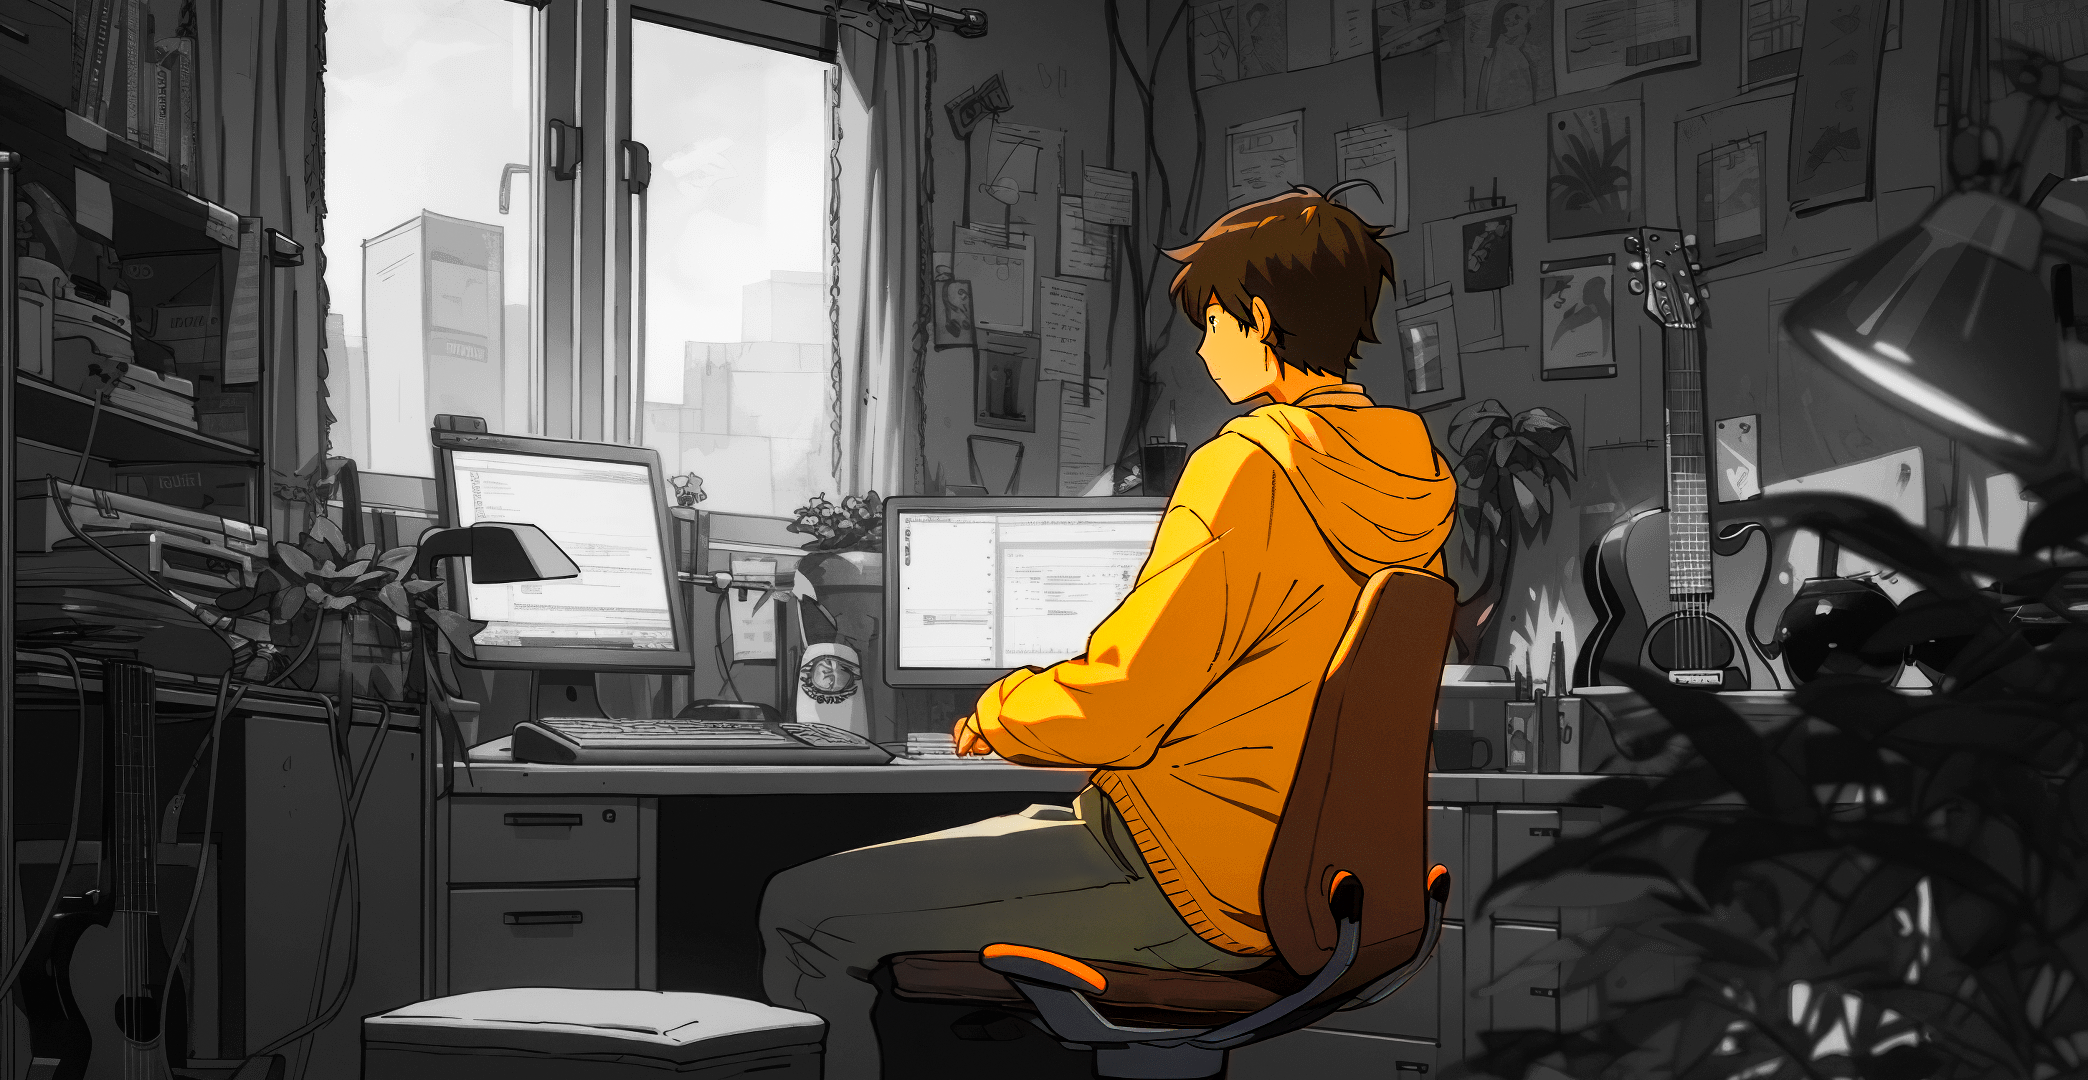
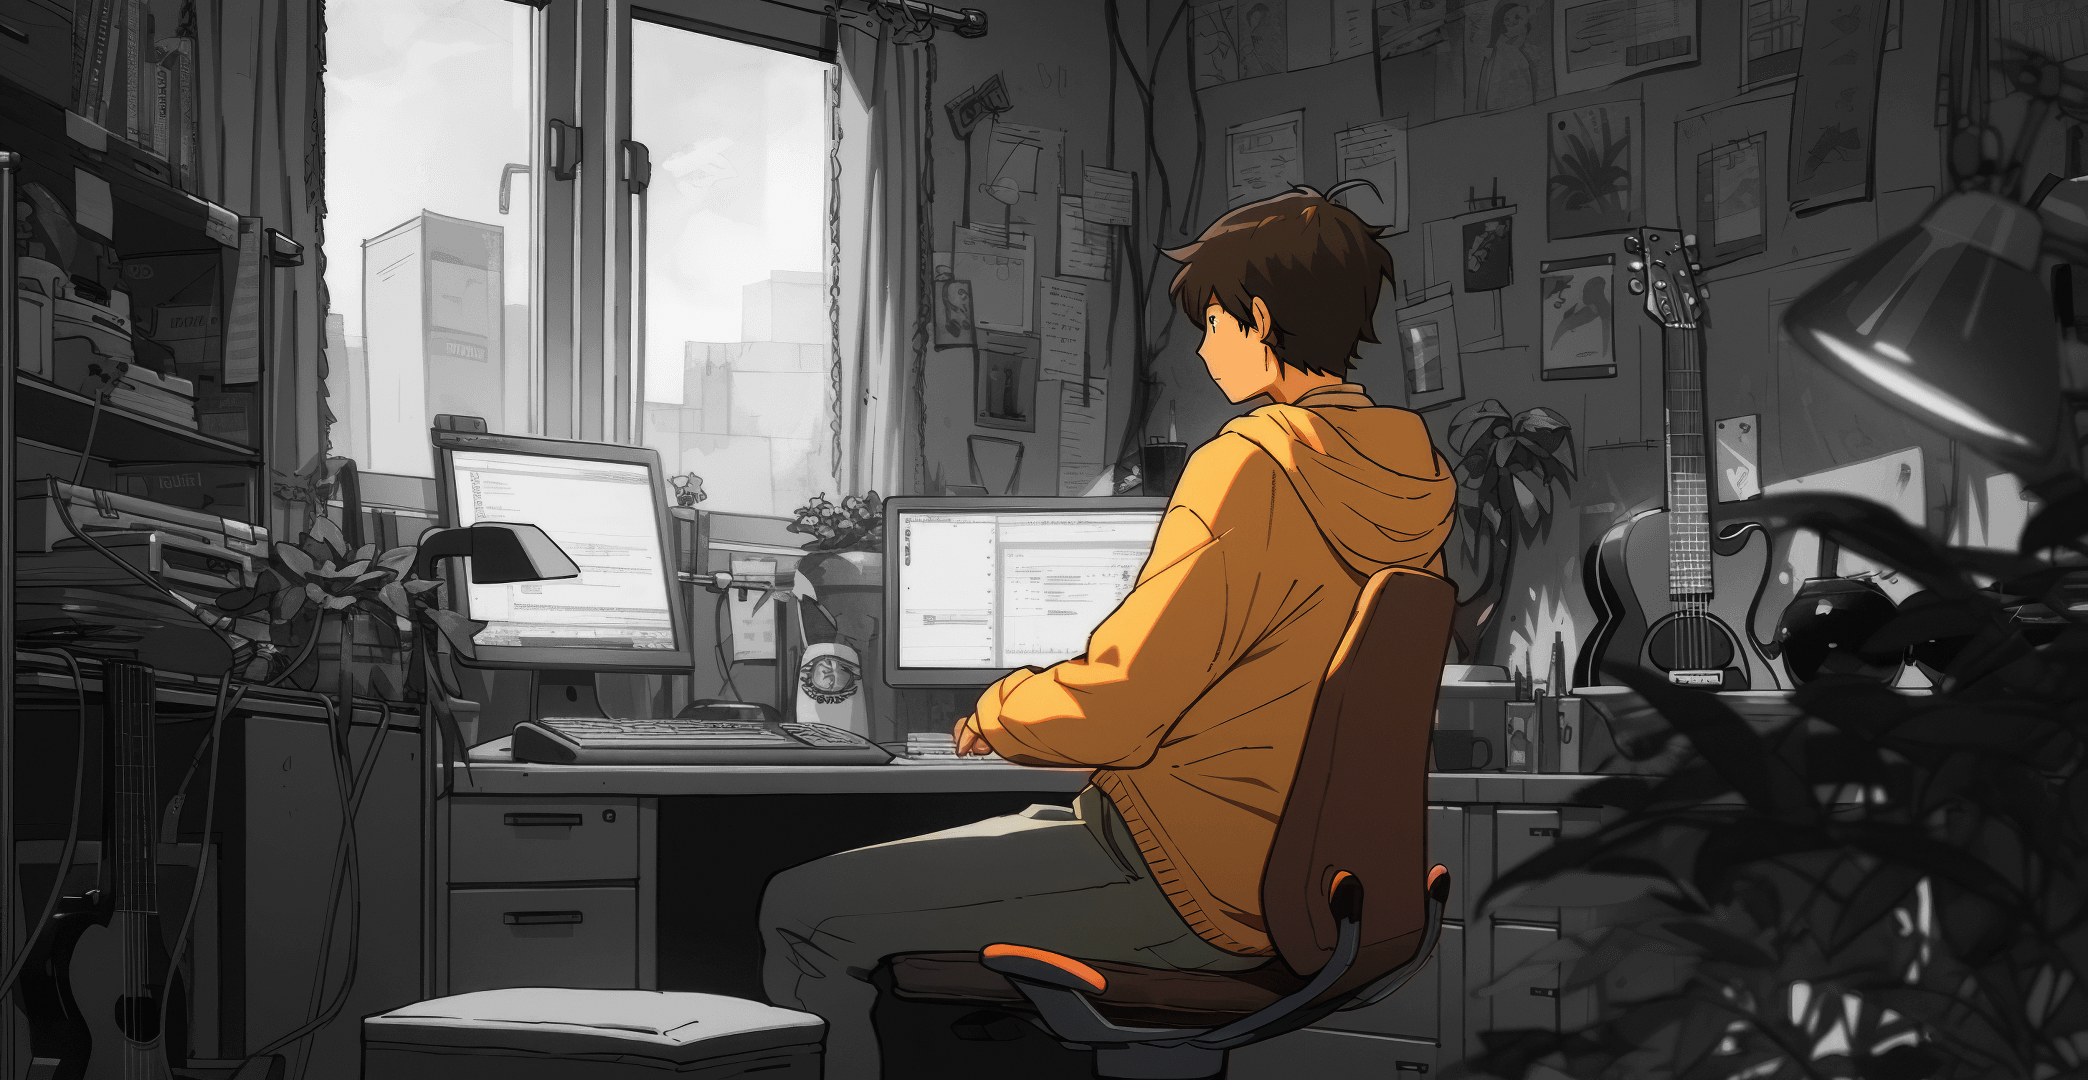
darkmode images

diff --git a/src/components/ImageBackground.tsx b/src/components/ImageBackground.tsx
@@ -14,6 +14,26 @@ const ImageBackground = ({ darkMode }: ImageBackgroundProps) => {
   const nextImageRef = useRef<HTMLDivElement>(null);
   const currentImageKey = useRef<string>('home');
 
+  function getBackgroundImages(darkMode: boolean) {
+    return darkMode ? {
+      home: '/lovable-uploads/reference-dark.PNG',
+      about: '/lovable-uploads/about-dark.PNG',
+      skills: '/lovable-uploads/skills-dark.PNG',
+      experience: '/lovable-uploads/experience-dark.PNG',
+      projects: '/lovable-uploads/projects-dark.PNG',
+      gallery: '/lovable-uploads/gallery-dark.PNG',
+      contact: '/lovable-uploads/reference-dark.PNG'
+    } : {
+      home: '/lovable-uploads/reference.PNG',
+      about: '/lovable-uploads/about.PNG',
+      skills: '/lovable-uploads/skills.PNG',
+      experience: '/lovable-uploads/experience.PNG',
+      projects: '/lovable-uploads/projects.PNG',
+      gallery: '/lovable-uploads/gallery.PNG',
+      contact: '/lovable-uploads/reference.png'
+    };
+  }
+
   useEffect(() => {
     const background = backgroundRef.current;
     const currentImage = currentImageRef.current;
@@ -25,22 +45,23 @@ const ImageBackground = ({ darkMode }: ImageBackgroundProps) => {
     const triggers: ScrollTrigger[] = [];
 
     // Background image mapping
-    const backgroundImages = {
-      home: '/lovable-uploads/reference.png',
-      about: '/lovable-uploads/about.PNG',
-      skills: '/lovable-uploads/experience.PNG', // Use experience background for skills
-      experience: '/lovable-uploads/experience.PNG',
-      projects: '/lovable-uploads/experience.PNG', // Same as experience for projects
-      gallery: '/lovable-uploads/gallery.PNG',
-      contact: '/lovable-uploads/connect.PNG'
-    };
+    const backgroundImages = getBackgroundImages(darkMode);
 
-    // Set initial background to hero
-    gsap.set(currentImage, { 
-      backgroundImage: `url(${backgroundImages.home})`,
-      opacity: 1 
-    });
-    gsap.set(nextImage, { opacity: 0 });
+    // Set initial background to current section (or hero if first load)
+    // Only set image if it's the first load, not when darkMode changes
+    const currentKey = currentImageKey.current as keyof typeof backgroundImages;
+    const initialImage = backgroundImages[currentKey];
+    
+    // Check if this is the initial load (currentImage doesn't have a background yet)
+    const isInitialLoad = !currentImage.style.backgroundImage;
+    
+    if (isInitialLoad) {
+      gsap.set(currentImage, { 
+        backgroundImage: `url(${initialImage})`,
+        opacity: 1 
+      });
+      gsap.set(nextImage, { opacity: 0 });
+    }
 
     // Function to smoothly transition backgrounds
     const transitionToBackground = (imageKey: keyof typeof backgroundImages) => {
@@ -148,7 +169,51 @@ const ImageBackground = ({ darkMode }: ImageBackgroundProps) => {
     return () => {
       triggers.forEach(trigger => trigger.kill());
     };
-  }, []);
+  }, [darkMode]);
+
+  // Smoothly transition background image when dark mode changes
+  useEffect(() => {
+    const currentImage = currentImageRef.current;
+    const nextImage = nextImageRef.current;
+    
+    if (!currentImage || !nextImage) return;
+    
+    // Skip if this is the initial load (no existing background image)
+    if (!currentImage.style.backgroundImage) return;
+
+    const backgroundImages = getBackgroundImages(darkMode);
+    const currentKey = currentImageKey.current as keyof typeof backgroundImages;
+    const newImageUrl = backgroundImages[currentKey];
+    
+    if (newImageUrl) {
+      // Kill any existing animations to prevent conflicts
+      gsap.killTweensOf([currentImage, nextImage]);
+      
+      // Ensure current image is fully visible during transition
+      gsap.set(currentImage, { opacity: 1 });
+      
+      // Set the next image background and prepare for transition
+      gsap.set(nextImage, { 
+        backgroundImage: `url(${newImageUrl})`,
+        opacity: 0 
+      });
+
+      // Smooth fade transition between light/dark images
+      gsap.to(nextImage, {
+        opacity: 1,
+        duration: 0.6,
+        ease: "power2.inOut",
+        onComplete: () => {
+          // Swap the images after fade completes
+          gsap.set(currentImage, { 
+            backgroundImage: `url(${newImageUrl})`,
+            opacity: 1 
+          });
+          gsap.set(nextImage, { opacity: 0 });
+        }
+      });
+    }
+  }, [darkMode]);
 
   return (
     <div 
@@ -166,7 +231,7 @@ const ImageBackground = ({ darkMode }: ImageBackgroundProps) => {
         }}
       >
         {/* Dark overlay for better text readability */}
-        <div className="absolute inset-0 bg-black/40 dark:bg-black/50 transition-all duration-500"></div>
+        <div className={`bg-overlay absolute inset-0 transition-all duration-500 ${darkMode ? 'bg-black/60' : 'bg-black/40'}`}></div>
       </div>
 
       {/* Next background image for smooth transitions */}
@@ -180,7 +245,7 @@ const ImageBackground = ({ darkMode }: ImageBackgroundProps) => {
         }}
       >
         {/* Dark overlay for better text readability */}
-        <div className="absolute inset-0 bg-black/40 dark:bg-black/50 transition-all duration-500"></div>
+        <div className={`bg-overlay absolute inset-0 transition-all duration-500 ${darkMode ? 'bg-black/60' : 'bg-black/40'}`}></div>
       </div>
     </div>
   );

diff --git a/src/index.css b/src/index.css
@@ -79,56 +79,56 @@
   }
 
   .dark {
-    /* Dark mode - Night atmosphere with desk lamp */
-    --background: 220 15% 8%;
-    --foreground: 35 40% 85%;
+    /* Dark mode - Night atmosphere with purple-blue theme */
+    --background: 230 25% 8%;
+    --foreground: 250 40% 85%;
 
-    --card: 220 12% 12%;
-    --card-foreground: 35 35% 80%;
+    --card: 230 20% 12%;
+    --card-foreground: 250 35% 80%;
 
-    --popover: 220 12% 12%;
-    --popover-foreground: 35 35% 80%;
+    --popover: 230 20% 12%;
+    --popover-foreground: 250 35% 80%;
 
-    /* Glowing amber for dark mode */
-    --primary: 35 85% 65%;
-    --primary-foreground: 220 15% 8%;
+    /* Glowing purple for dark mode */
+    --primary: 260 85% 70%;
+    --primary-foreground: 230 25% 8%;
 
-    /* Dark warm secondary */
-    --secondary: 220 10% 18%;
-    --secondary-foreground: 35 50% 75%;
+    /* Dark purple secondary */
+    --secondary: 230 15% 18%;
+    --secondary-foreground: 250 50% 75%;
 
     /* Dark muted */
-    --muted: 220 8% 15%;
-    --muted-foreground: 35 25% 60%;
+    --muted: 230 12% 15%;
+    --muted-foreground: 250 25% 60%;
 
     /* Dark accent */
-    --accent: 220 10% 20%;
-    --accent-foreground: 35 60% 70%;
+    --accent: 245 20% 25%;
+    --accent-foreground: 250 60% 70%;
 
     --destructive: 0 75% 55%;
     --destructive-foreground: 210 40% 98%;
 
-    --border: 220 8% 22%;
-    --input: 220 8% 22%;
-    --ring: 35 85% 65%;
+    --border: 230 12% 22%;
+    --input: 230 12% 22%;
+    --ring: 260 85% 70%;
 
-    /* Dark mode custom tokens */
-    --golden-hour: 35 85% 65%;
-    --golden-glow: 40 90% 70%;
-    --warm-shadow: 220 15% 5%;
-    --coffee-brown: 25 45% 30%;
+    /* Dark mode custom tokens - night purple theme */
+    --golden-hour: 260 85% 70%;
+    --golden-glow: 270 90% 75%;
+    --warm-shadow: 230 20% 5%;
+    --coffee-brown: 250 45% 30%;
     --plant-green: 120 40% 35%;
-    --desk-wood: 28 25% 35%;
+    --desk-wood: 240 25% 35%;
     
-    /* Dark gradients */
-    --gradient-warm: linear-gradient(135deg, hsl(35 70% 35%), hsl(28 50% 25%));
-    --gradient-golden: linear-gradient(90deg, hsl(40 80% 60%), hsl(35 75% 55%));
-    --gradient-glow: radial-gradient(circle, hsl(35 80% 50% / 0.4), transparent 70%);
+    /* Dark gradients - purple/blue theme */
+    --gradient-warm: linear-gradient(135deg, hsl(260 70% 35%), hsl(240 50% 25%));
+    --gradient-golden: linear-gradient(90deg, hsl(270 80% 65%), hsl(260 75% 60%));
+    --gradient-glow: radial-gradient(circle, hsl(260 80% 55% / 0.4), transparent 70%);
     
-    /* Dark shadows */
-    --shadow-warm: 0 10px 30px -5px hsl(220 15% 5% / 0.8);
-    --shadow-golden: 0 0 30px hsl(35 80% 55% / 0.4);
-    --shadow-soft: 0 5px 15px -3px hsl(220 15% 5% / 0.6);
+    /* Dark shadows - purple glow */
+    --shadow-warm: 0 10px 30px -5px hsl(230 20% 5% / 0.8);
+    --shadow-golden: 0 0 30px hsl(260 80% 60% / 0.4);
+    --shadow-soft: 0 5px 15px -3px hsl(230 20% 5% / 0.6);
   }
 }
 
@@ -234,6 +234,14 @@
     color: hsl(var(--golden-glow));
   }
 
+  .text-night {
+    color: hsl(260 85% 70%);
+  }
+
+  .text-purple-glow {
+    color: hsl(270 90% 75%);
+  }
+
   .bg-desk-wood {
     background-color: hsl(var(--desk-wood));
   }
@@ -252,6 +260,14 @@
 
   .shadow-soft {
     box-shadow: var(--shadow-soft);
+  }
+
+  .shadow-purple {
+    box-shadow: 0 0 30px hsl(260 80% 60% / 0.4);
+  }
+
+  .shadow-night {
+    box-shadow: 0 0 20px hsl(270 80% 65% / 0.3);
   }
 }
 

diff --git a/src/components/SkillsSection.tsx b/src/components/SkillsSection.tsx
@@ -146,23 +146,23 @@ const SkillsSection = () => {
       );
     });
 
-    // Animate progress bars
-    progressBars.forEach((bar) => {
-      const width = bar.getAttribute('data-width');
-      gsap.fromTo(bar,
-        { width: '0%' },
-        {
-          width: `${width}%`,
-          duration: 0.5,
-          ease: "power2.out",
-          scrollTrigger: {
-            trigger: bar,
-            start: "top 90%",
-            toggleActions: "play none none none"
-          }
-        }
-      );
-    });
+    // // Animate progress bars
+    // progressBars.forEach((bar) => {
+    //   const width = bar.getAttribute('data-width');
+    //   gsap.fromTo(bar,
+    //     { width: '0%' },
+    //     {
+    //       width: `${width}%`,
+    //       duration: 0.5,
+    //       ease: "power2.out",
+    //       scrollTrigger: {
+    //         trigger: bar,
+    //         start: "top 90%",
+    //         toggleActions: "play none none none"
+    //       }
+    //     }
+    //   );
+    // });
 
   }, []);
 

diff --git a/src/components/AboutSection.tsx b/src/components/AboutSection.tsx
@@ -123,7 +123,7 @@ const AboutSection = () => {
               <div className="text-sm text-muted-foreground">Years Experience</div>
             </div>
             <div className="text-center">
-              <div className="text-2xl font-bold text-primary">50+</div>
+              <div className="text-2xl font-bold text-primary">30+</div>
               <div className="text-sm text-muted-foreground">Projects Built</div>
             </div>
             <div className="text-center">

diff --git a/src/components/ContactSection.tsx b/src/components/ContactSection.tsx
@@ -277,7 +277,7 @@ const ContactSection = () => {
                 
                 <div className="flex items-center space-x-4">
                   <Briefcase className="w-6 h-6 text-primary" />
-                  <span className="text-foreground">Available for working in SF Bay Area / Remotely</span>
+                  <span className="text-foreground">Open to work in SF Bay Area / Remotely</span>
                 </div>
               </div>
             </div>
